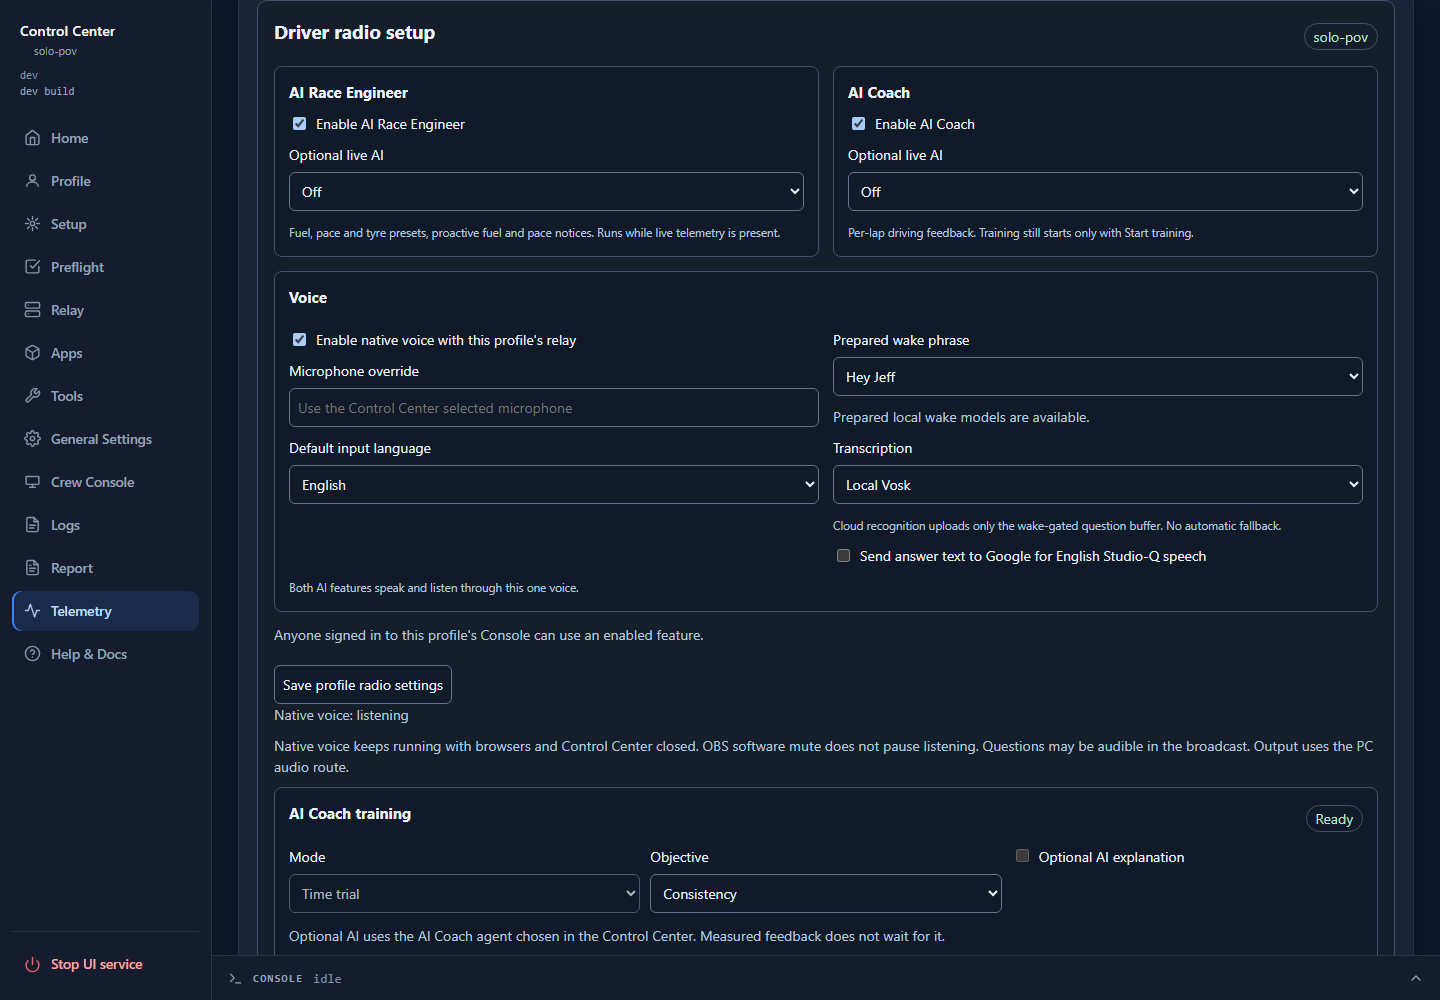
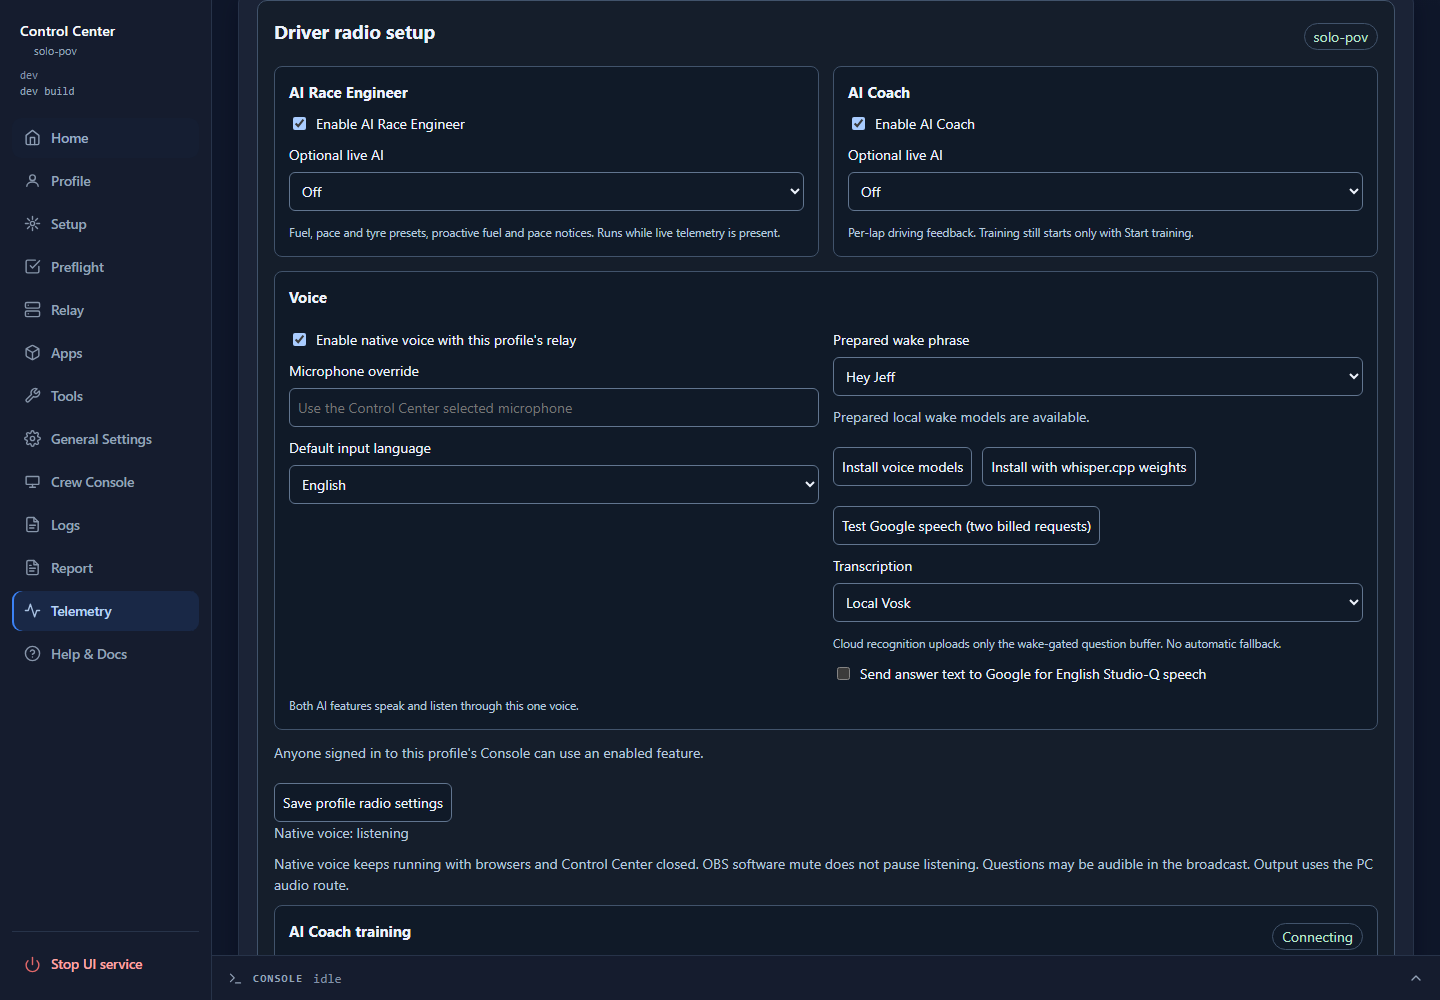
feat(ui): run the radio voice actions from the Control Center
racecast radio provision and radio smoke were CLI-only. Add Install voice
models, Install with whisper.cpp weights and Test Google speech to the Voice
card of Driver radio setup, as Control Center jobs. The billed speech test runs
only on its button, whose click is the consent to --allow-cloud.

Record the rule that every operator CLI action is also runnable in the Control
Center in CLAUDE.md.

diff --git a/src/console/driver-radio.js b/src/console/driver-radio.js
@@ -117,18 +117,39 @@ class View {
   this.q('setup-form').querySelector('button').disabled=!this.setup.binding;this.q('service-form').querySelector('button').disabled=!this.setup.binding;
  }
  buildAdmin(){
-  this.content.innerHTML=`<form id="admin-form"><div class="cards"><section class="setting" aria-label="AI Race Engineer settings"><h3>AI Race Engineer</h3><label class="check"><input id="ai-engineer-enabled" type="checkbox">Enable AI Race Engineer</label><label>Optional live AI<select id="ai-engineer-agent"><option value="">Off</option></select></label><small>Fuel, pace and tyre presets, proactive fuel and pace notices. Runs while live telemetry is present.</small></section><section class="setting" aria-label="AI Coach settings"><h3>AI Coach</h3><label class="check"><input id="ai-coach-enabled" type="checkbox">Enable AI Coach</label><label>Optional live AI<select id="ai-coach-agent"><option value="">Off</option></select></label><small>Per-lap driving feedback. Training still starts only with Start training.</small></section><section class="setting voice" aria-label="Voice settings"><h3>Voice</h3><div class="grid"><div><label class="check"><input id="voice-enabled" type="checkbox">Enable native voice with this profile's relay</label><label>Microphone override<input id="microphone" placeholder="Use the Control Center selected microphone"></label><label>Default input language<select id="input-language"><option value="en">English</option><option value="de">German</option></select></label></div><div><label>Prepared wake phrase<select id="wake"></select></label><p id="models" class="muted"></p><label>Transcription<select id="stt"><option value="vosk">Local Vosk</option><option value="whisper">Local whisper.cpp</option><option value="google">Google Speech, configured cloud</option></select></label><small>Cloud recognition uploads only the wake-gated question buffer. No automatic fallback.</small><label class="check"><input id="speech" type="checkbox">Send answer text to Google for English Studio-Q speech</label></div></div><small>Both AI features speak and listen through this one voice.</small></section></div><p class="muted" style="margin-top:12px">Anyone signed in to this profile's Console can use an enabled feature.</p><button type="submit">Save profile radio settings</button></form><p id="native-summary" class="muted"></p><p class="notice">Native voice keeps running with browsers and Control Center closed. OBS software mute does not pause listening. Questions may be audible in the broadcast. Output uses the PC audio route.</p><section id="coach-section" aria-label="AI Coach training"></section>`;
+  this.content.innerHTML=`<form id="admin-form"><div class="cards"><section class="setting" aria-label="AI Race Engineer settings"><h3>AI Race Engineer</h3><label class="check"><input id="ai-engineer-enabled" type="checkbox">Enable AI Race Engineer</label><label>Optional live AI<select id="ai-engineer-agent"><option value="">Off</option></select></label><small>Fuel, pace and tyre presets, proactive fuel and pace notices. Runs while live telemetry is present.</small></section><section class="setting" aria-label="AI Coach settings"><h3>AI Coach</h3><label class="check"><input id="ai-coach-enabled" type="checkbox">Enable AI Coach</label><label>Optional live AI<select id="ai-coach-agent"><option value="">Off</option></select></label><small>Per-lap driving feedback. Training still starts only with Start training.</small></section><section class="setting voice" aria-label="Voice settings"><h3>Voice</h3><div class="grid"><div><label class="check"><input id="voice-enabled" type="checkbox">Enable native voice with this profile's relay</label><label>Microphone override<input id="microphone" placeholder="Use the Control Center selected microphone"></label><label>Default input language<select id="input-language"><option value="en">English</option><option value="de">German</option></select></label></div><div><label>Prepared wake phrase<select id="wake"></select></label><p id="models" class="muted"></p><div class="row"><button id="radio-provision" type="button">Install voice models</button><button id="radio-whisper" type="button">Install with whisper.cpp weights</button><button id="radio-smoke" type="button">Test Google speech (two billed requests)</button></div><p id="voice-op" class="muted" role="status"></p><label>Transcription<select id="stt"><option value="vosk">Local Vosk</option><option value="whisper">Local whisper.cpp</option><option value="google">Google Speech, configured cloud</option></select></label><small>Cloud recognition uploads only the wake-gated question buffer. No automatic fallback.</small><label class="check"><input id="speech" type="checkbox">Send answer text to Google for English Studio-Q speech</label></div></div><small>Both AI features speak and listen through this one voice.</small></section></div><p class="muted" style="margin-top:12px">Anyone signed in to this profile's Console can use an enabled feature.</p><button type="submit">Save profile radio settings</button></form><p id="native-summary" class="muted"></p><p class="notice">Native voice keeps running with browsers and Control Center closed. OBS software mute does not pause listening. Questions may be audible in the broadcast. Output uses the PC audio route.</p><section id="coach-section" aria-label="AI Coach training"></section>`;
+  this.q('radio-provision').onclick=()=>this.voiceOp('radio-provision',{},'Voice models installed.');
+  this.q('radio-whisper').onclick=()=>this.voiceOp('radio-provision',{whisper:true},'Voice models and whisper.cpp weights installed.');
+  this.q('radio-smoke').onclick=()=>this.voiceOp('radio-smoke',{},'Google speech works.');
   this.q('admin-form').oninput=()=>{if(!this.dirty)this.formBase=this.adminData;this.dirty=true;this.editVersion++;};
   this.q('admin-form').onsubmit=e=>{e.preventDefault();if(!this.adminData)return;const base=this.formBase||this.adminData;const old=base.settings;const fields={expectedProfile:base.profile,expected:old.revision,features:{engineer:{enabled:this.q('ai-engineer-enabled').checked,agent:this.q('ai-engineer-agent').value||null},coach:{enabled:this.q('ai-coach-enabled').checked,agent:this.q('ai-coach-agent').value||null}},voice:{enabled:this.q('voice-enabled').checked,microphone:this.q('microphone').value.trim()||null,input_language:this.q('input-language').value},native:{...old.native,wake:this.q('wake').value||old.native.wake,stt:this.q('stt').value},providers:{speech:this.q('speech').checked}};this.send('',fields);};
  }
+ // Runs a racecast CLI action as a Control Center job; the form stays usable meanwhile.
+ async voiceOp(name,params,done){
+  if(this.voiceBusy)return;this.voiceBusy=true;const out=this.q('voice-op');out.textContent='Running…';this.voiceButtons();
+  const message=value=>value?.message||value||'The action failed.';
+  try{
+   const started=await(await fetch('/api/op/'+name,{method:'POST',headers:{'Content-Type':'application/json'},body:JSON.stringify({params})})).json();
+   if(!started.ok){out.textContent=message(started.error);return;}
+   for(;;){
+    const job=await(await fetch('/api/jobs/'+started.job_id+'?tail=5',{cache:'no-store'})).json();
+    if(this.dead)return;
+    if(!job.ok){out.textContent=message(job.error);return;}
+    if(!job.running){out.textContent=job.exit_code===0?done:message((job.lines||[]).slice(-1)[0]);return;}
+    await new Promise(resolve=>setTimeout(resolve,1000));
+   }
+  }catch(error){out.textContent='Control Center not reachable.';}
+  finally{this.voiceBusy=false;if(!this.dead)this.voiceButtons();}
+ }
+ voiceButtons(){for(const id of ['radio-provision','radio-whisper','radio-smoke'])this.q(id).disabled=!!this.voiceBusy;}
  renderAdmin(data){
   if(this.adminData?.profile!==data.profile){this.coach?.clear(this.adminData?'Profile changed. Refreshing coaching.':'');this.generation++;this.editVersion++;this.dirty=false;this.formBase=null;}
   this.access=true;this.content.hidden=false;this.problem.textContent='';this.adminData=data;this.problem.textContent=this.actionError;this.q('reload').hidden=!this.actionError;this.q('live').textContent=data.profile;
   this.q('native-summary').textContent='Native voice: '+data.native.phase+(data.native.error?' · '+data.native.error.replaceAll('_',' '):'');
   if(this.dirty)return;const s=data.settings;this.q('ai-engineer-enabled').checked=s.features.engineer.enabled;this.q('ai-coach-enabled').checked=s.features.coach.enabled;this.q('voice-enabled').checked=s.voice.enabled;this.q('microphone').value=s.voice.microphone||'';this.q('input-language').value=s.voice.input_language;this.q('speech').checked=s.providers.speech;this.q('stt').value=s.native.stt;
-  const wake=this.q('wake');wake.replaceChildren();for(const id of data.native.phrases||[])wake.append(new Option(id==='hey_jeff'?'Hey Jeff':'Hey Engineer',id));wake.disabled=!wake.options.length;wake.value=s.native.wake;this.q('models').textContent=wake.options.length?'Prepared local wake models are available.':'Local models are unavailable. Run racecast radio provision before using native voice.';
+  const wake=this.q('wake');wake.replaceChildren();for(const id of data.native.phrases||[])wake.append(new Option(id==='hey_jeff'?'Hey Jeff':'Hey Engineer',id));wake.disabled=!wake.options.length;wake.value=s.native.wake;this.q('models').textContent=wake.options.length?'Prepared local wake models are available.':'Local models are unavailable. Choose Install voice models before using native voice.';
   for(const feature of ['engineer','coach'])agentChoices(this.q('ai-'+feature+'-agent'),data.agents,s.features[feature].agent);
-  this.q('admin-form').querySelectorAll('button').forEach(n=>n.disabled=false);
+  this.q('admin-form').querySelectorAll('button').forEach(n=>n.disabled=false);this.voiceButtons();
  }
  destroy(){this.coach?.destroy();this.dead=true;clearTimeout(this.timer);for(const c of this.controllers)c.abort();this.controllers.clear();window.removeEventListener('pagehide',this.onHide);}
 }

diff --git a/tests/test_driver_radio_ui.py b/tests/test_driver_radio_ui.py
@@ -519,6 +519,33 @@ def t_a_native_refusal_with_both_features_off_hides_the_voice_row():
     assert out['voice'] is True and out['native'] is None and out['pause'] is True and out['engineerOff'] is False,out
 
 
+def t_voice_card_runs_the_radio_cli_actions():
+    settings={'revision':3,'features':features(engineer=True),'voice':{'enabled':True,'microphone':None,'input_language':'en'},
+              'native':{'wake':'hey_jeff','stt':'vosk'},'providers':{'speech':False}}
+    data={'ok':True,'profile':'solo-pov','settings':settings,'native':{'phase':'error','error':'models_unavailable','phrases':[]},'agents':[]}
+    out=_run_component("""
+     Object.assign(routes,{'/api/driver-radio':[200,%s],'/api/driver-radio/coach':[403,{ok:false,code:'feature_disabled',error:'Off'}],
+       '/api/op/radio-provision':[200,{ok:true,job_id:'j1'}],'/api/jobs/j1?tail=5':[200,{ok:true,running:false,exit_code:0,lines:['{}']}],
+       '/api/op/radio-smoke':[200,{ok:true,job_id:'j2'}],'/api/jobs/j2?tail=5':[200,{ok:true,running:false,exit_code:1,lines:['racecast radio speech check: unconfigured']}]});
+     const view=window.DriverRadio.mountAdmin(new El('div'));await tick();
+     const seen={models:byId('models').textContent};
+     await byId('radio-whisper').onclick();seen.whisper=byId('voice-op').textContent;
+     await byId('radio-provision').onclick();seen.provision=byId('voice-op').textContent;
+     await byId('radio-smoke').onclick();seen.smoke=byId('voice-op').textContent;seen.disabled=byId('radio-smoke').disabled;
+     routes['/api/op/radio-provision']=[409,{ok:false,error:'another job is running'}];
+     await byId('radio-provision').onclick();seen.busy=byId('voice-op').textContent;
+     seen.posts=posts.filter(p=>p.url.startsWith('/api/op/'));
+     view.destroy();console.log(JSON.stringify(seen));
+    """%json.dumps(data))
+    if out is None:return
+    assert 'Install voice models' in out['models'] and 'racecast radio' not in out['models'],out
+    assert [p['url'] for p in out['posts']]==['/api/op/radio-provision','/api/op/radio-provision','/api/op/radio-smoke','/api/op/radio-provision'],out
+    assert out['posts'][0]['body']=={'params':{'whisper':True}} and out['posts'][1]['body']=={'params':{}},out
+    assert 'installed' in out['whisper'] and 'installed' in out['provision'],out
+    assert 'unconfigured' in out['smoke'] and out['disabled'] is False,out
+    assert 'another job is running' in out['busy'],out
+
+
 def _messages_view_script():
     html=(ROOT/'src/console/driver-radio-messages.html').read_text(encoding='utf8')
     return re.search(r'<script id="messages-view">(.*?)</script>',html,re.S).group(1)

diff --git a/src/ui/ui_ops.py b/src/ui/ui_ops.py
@@ -51,6 +51,8 @@ OPS = {
     "health-export": ["health", "export"],
     "health-import": ["health", "import"],
     "gt7-data-update": ["gt7-data", "update"],
+    "radio-provision": ["radio", "provision"],
+    "radio-smoke": ["radio", "smoke", "--allow-cloud"],   # the button click is the consent to the billed calls
     "telemetry-replay-start": ["telemetry", "replay", "start"],
     "telemetry-replay-stop": ["telemetry", "replay", "stop"],
     "telemetry-replay-status": ["telemetry", "replay", "status"],
@@ -99,6 +101,10 @@ def _ip_arg(value):
 
 def _update_flag(value):
     return ["--update"] if value else []
+
+
+def _whisper_flag(value):
+    return ["--whisper"] if value else []
 
 
 def _qualifying_flag(value):
@@ -175,6 +181,7 @@ PARAMS = {
     "install-tools": {"update": _update_flag},
     "install-apps": {"update": _update_flag},
     "update": {"tag": _tag_arg},
+    "radio-provision": {"whisper": _whisper_flag},
     "health-import": {"file": _file_arg},
 }
 

diff --git a/tests/test_ui_ops.py b/tests/test_ui_ops.py
@@ -118,6 +118,13 @@ def t_running_apps_data_never_raises():
     assert d == {"obs": False, "discord": False}
 
 
+def t_radio_voice_actions_map_to_the_cli():
+    assert ui_ops.build_argv('radio-provision', None) == ['radio', 'provision']
+    assert ui_ops.build_argv('radio-provision', {'whisper': True}) == ['radio', 'provision', '--whisper']
+    assert ui_ops.build_argv('radio-provision', {'whisper': False}) == ['radio', 'provision']
+    assert ui_ops.build_argv('radio-smoke', None) == ['radio', 'smoke', '--allow-cloud']
+
+
 def t_ops_registry_shape():
     assert ui_ops.OPS["relay-start"] == ["relay", "start"]
     assert ui_ops.OPS["obs-refresh"] == ["obs", "refresh"]

diff --git a/src/docs/wiki/Driver-Radio.md b/src/docs/wiki/Driver-Radio.md
@@ -191,9 +191,10 @@ read text; it does not become a remote microphone or speaker.
 
 1. Install FFmpeg and FFplay on the relay PC. The existing tool setup normally
    provides FFmpeg; ensure FFplay is also available on the executable search path.
-2. Explicitly install the pinned local wake and transcription models:
-   `racecast radio provision`. Provisioning verifies checksums and the prepared
-   phrase fixtures. A relay start downloads nothing.
+2. Explicitly install the pinned local wake and transcription models: **Install
+   voice models** in the **Voice** card, or `racecast radio provision`. Provisioning
+   verifies checksums and the prepared phrase fixtures. A relay start downloads
+   nothing.
 3. In the **Voice** card of **Driver radio setup**, deliberately enable native voice for the profile.
    It uses the microphone selected in Control Center unless you enter a
    **Microphone override**. On Windows/macOS the override is the native device name; on Linux it
@@ -244,8 +245,9 @@ existing machine setting `RACECAST_GCLOUD_TTS_KEY` and explicitly select Google
 speech in the profile's radio setup. Credentials stay on the relay. Only answer
 text is sent for synthesis. There is no silent voice substitution.
 
-`racecast radio smoke --allow-cloud` makes two configured synthesis requests and
-measures cold, warm and cached latency without playing audio. It incurs normal
+**Test Google speech** in the **Voice** card (`racecast radio smoke --allow-cloud`)
+makes two configured synthesis requests and measures cold, warm and cached latency
+without playing audio. It incurs normal
 provider usage. Run it deliberately; ordinary tests never make paid calls.
 
 Transcription choices are independent:
@@ -254,7 +256,7 @@ Transcription choices are independent:
   can miss free questions, especially in noise. Repeat the wake and question, or
   use a preset if the transcript is wrong.
 - **Local whisper.cpp** uses its separately installed `whisper-cli`. Run
-  `racecast radio provision --whisper` to download pinned multilingual tiny
+  **Install with whisper.cpp weights** (`racecast radio provision --whisper`) to download pinned multilingual tiny
   weights. Optional machine settings `RACECAST_RADIO_WHISPER_EXE` and
   `RACECAST_RADIO_WHISPER_MODEL` select an installed executable/model. Synthetic
   English checks worked with tiny/base; the first German synthetic phrase was

diff --git a/CLAUDE.md b/CLAUDE.md
@@ -35,6 +35,9 @@ no package manager); external runtime deps are `yt-dlp`, `streamlink`, `ffmpeg`,
   `http_util`, only stdlib-only helper modules from `src/scripts` that
   `tools/build-binary.py` bundles, e.g. `asset_metadata`, `placeholders`) and
   `src/scripts/update.py` (needs its own HTTPS-only redirect opener + test seam).
+- **Every operator CLI action is also runnable in the Control Center.** A new or
+  changed `racecast` verb gets its Control Center action in the same change
+  (`src/ui/ui_ops.py` plus a control in the matching view, or a dedicated `/api` route).
 - **Removing/renaming a CLI flag? Grep the whole repo: including `tools/` and
   `.github/`.** Those callers run only in the build/release pipeline, not in the
   test suite (a stale `--timer-url` in the binary smoke test broke every v1.0.0
